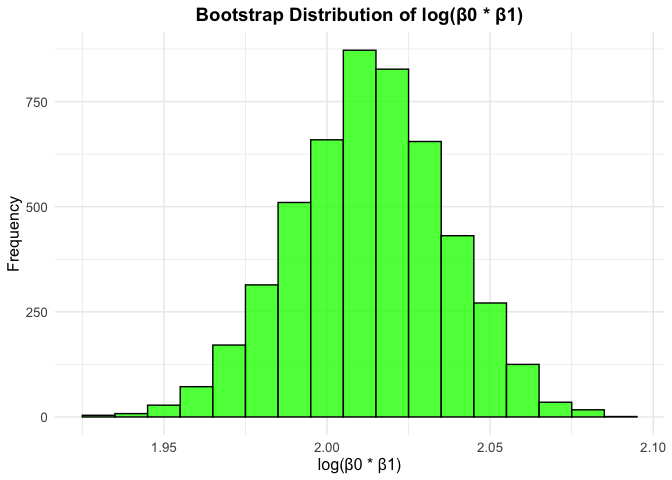
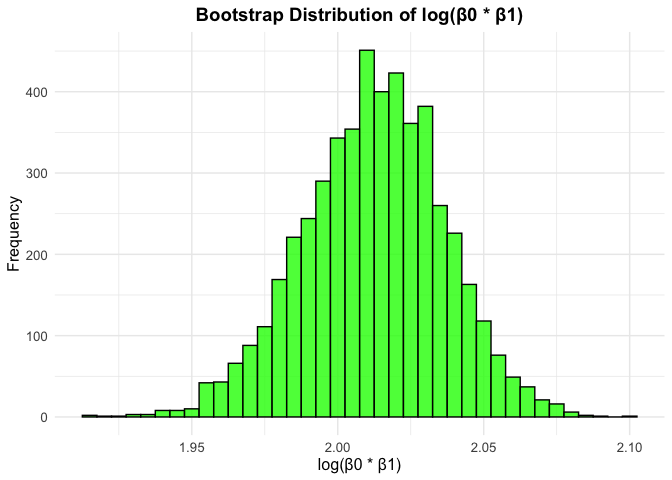
Probelm 1 revise

diff --git a/p8105_hw6_tc3326.md b/p8105_hw6_tc3326.md
@@ -89,7 +89,7 @@ weather_results <-
 # Plot for R-squared
 plot_r_squared <- weather_results %>%
   ggplot(aes(x = r_squared)) +
-  geom_histogram(binwidth = 0.01, fill = "blue", color = "black", alpha = 0.8) +
+  geom_histogram(binwidth = 0.005, fill = "blue", color = "black", alpha = 0.8) +
   labs(
     title = "Bootstrap Distribution of R-squared",
     x = "R-squared",
@@ -111,7 +111,7 @@ plot_r_squared
 # Plot for log(β0 * β1)
 plot_log_beta <- weather_results %>%
   ggplot(aes(x = log_intercept_slope)) +
-  geom_histogram(binwidth = 0.01, fill = "green", color = "black", alpha = 0.8) +
+  geom_histogram(binwidth = 0.005, fill = "green", color = "black", alpha = 0.8) +
   labs(
     title = "Bootstrap Distribution of log(β0 * β1)",
     x = "log(β0 * β1)",
@@ -149,8 +149,8 @@ tibble(
     ## # A tibble: 2 × 3
     ##   Metric       `2.5%` `97.5%`
     ##   <chr>         <dbl>   <dbl>
-    ## 1 R-squared     0.894   0.927
-    ## 2 log(β0 * β1)  1.97    2.06
+    ## 1 R-squared     0.895   0.927
+    ## 2 log(β0 * β1)  1.96    2.06
 
 ## Problem 2
 
@@ -744,15 +744,7 @@ cv_results <- cv_data %>%
     rmse_simple_model = map2_dbl(simple_model, test, ~ rmse(model = .x, data = .y)),
     rmse_interaction_model = map2_dbl(interaction_model, test, ~ rmse(model = .x, data = .y))
   )
-```
 
-    ## Warning: There was 1 warning in `mutate()`.
-    ## ℹ In argument: `rmse_final_model = map2_dbl(final_model, test, ~rmse(model =
-    ##   .x, data = .y))`.
-    ## Caused by warning in `predict.lm()`:
-    ## ! prediction from rank-deficient fit; attr(*, "non-estim") has doubtful cases
-
-``` r
 # Plot RMSE distributions for each model
 cv_results %>%
   select(starts_with("rmse")) %>%
